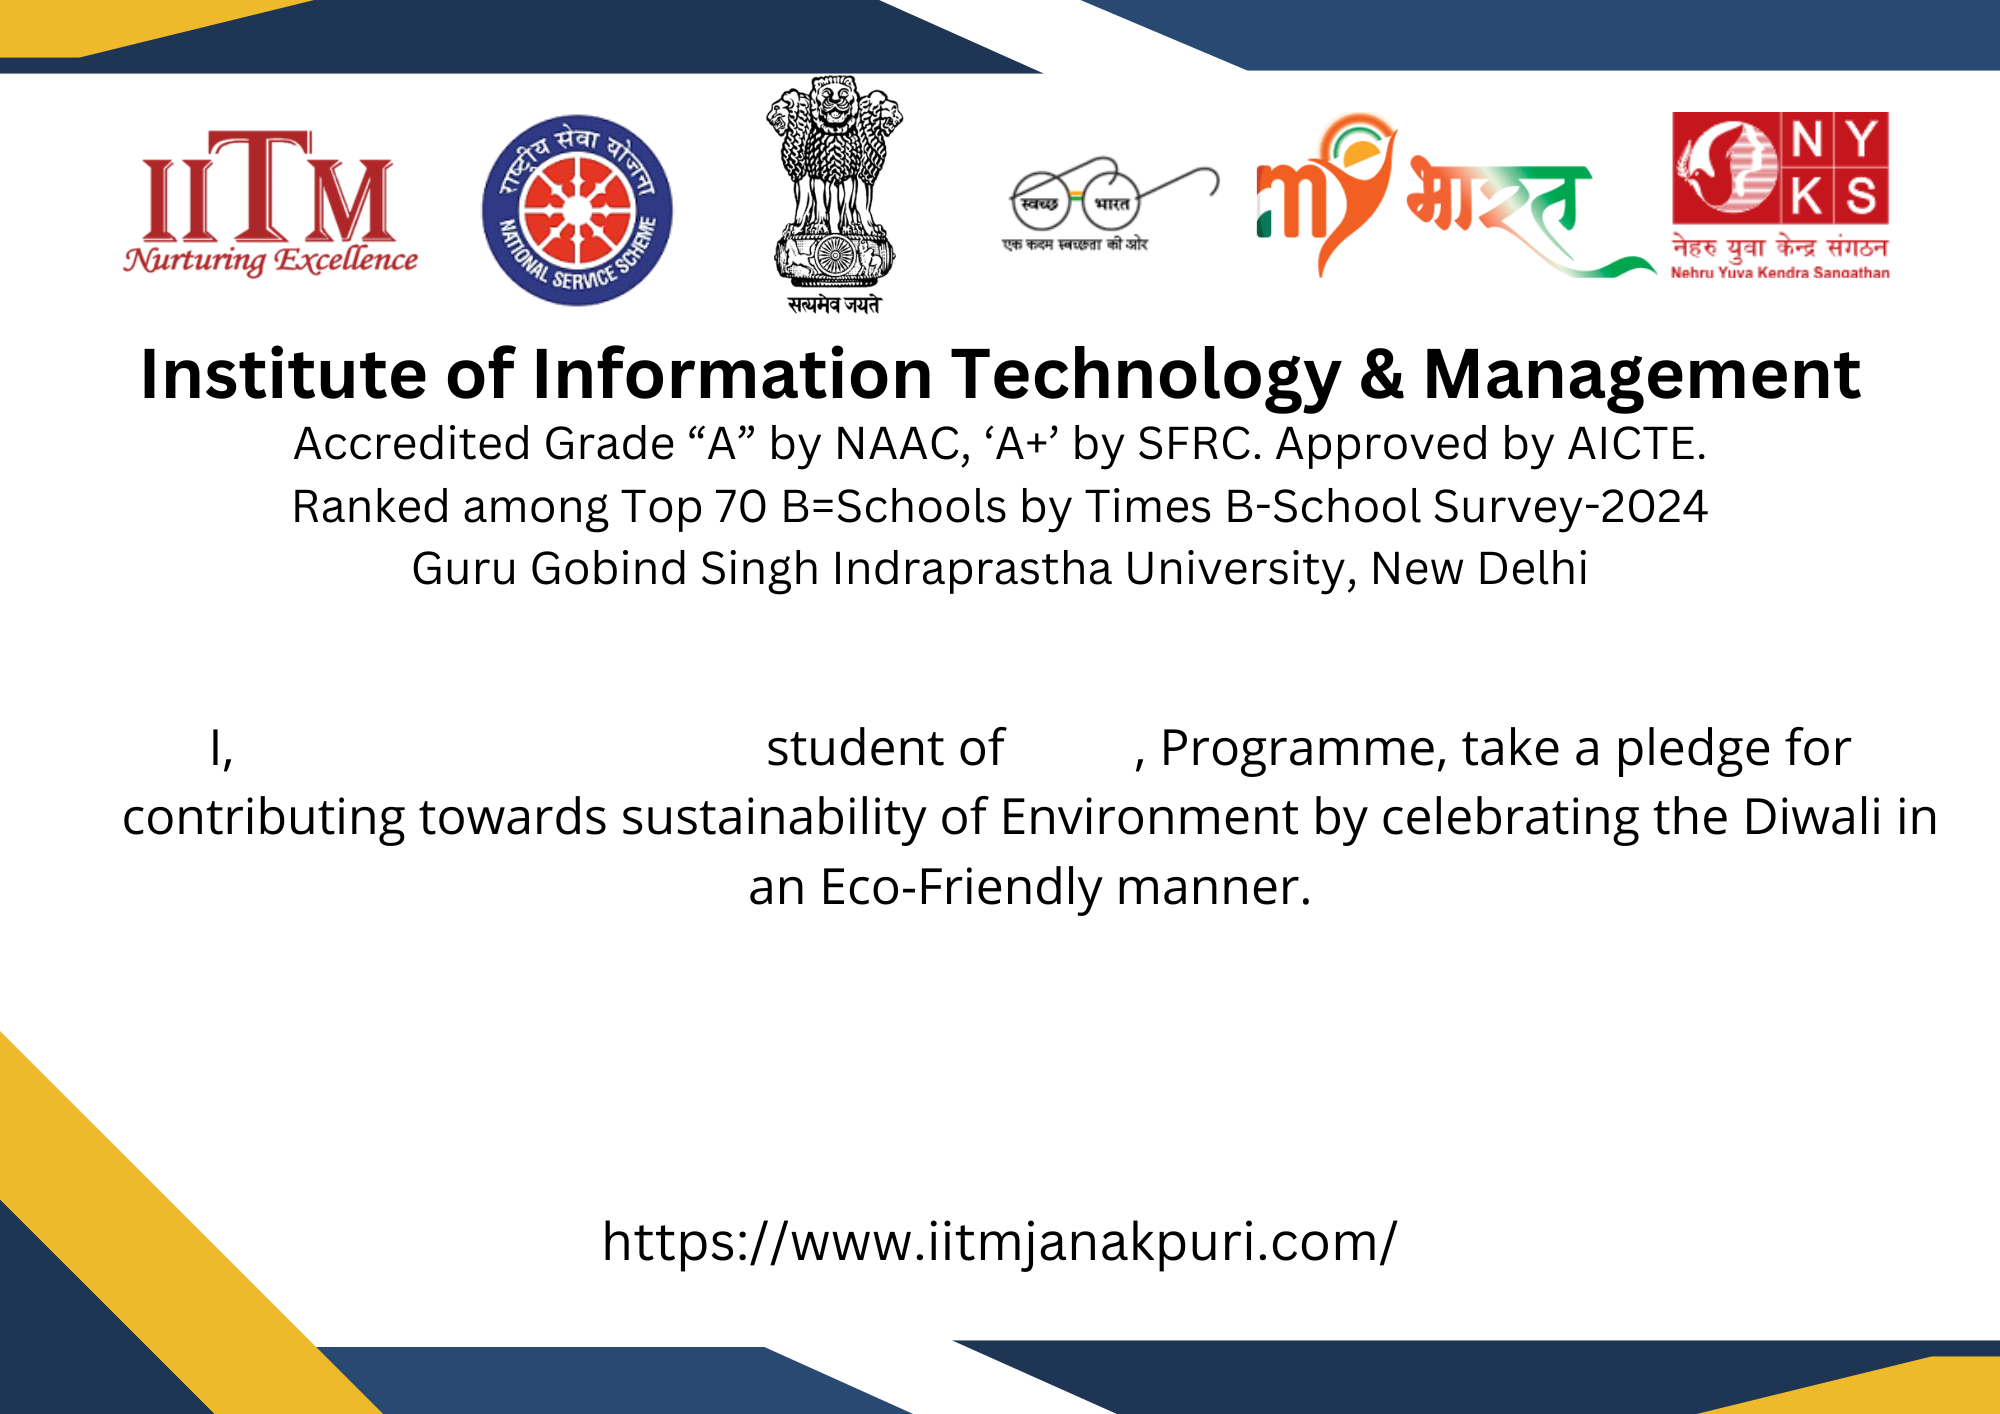
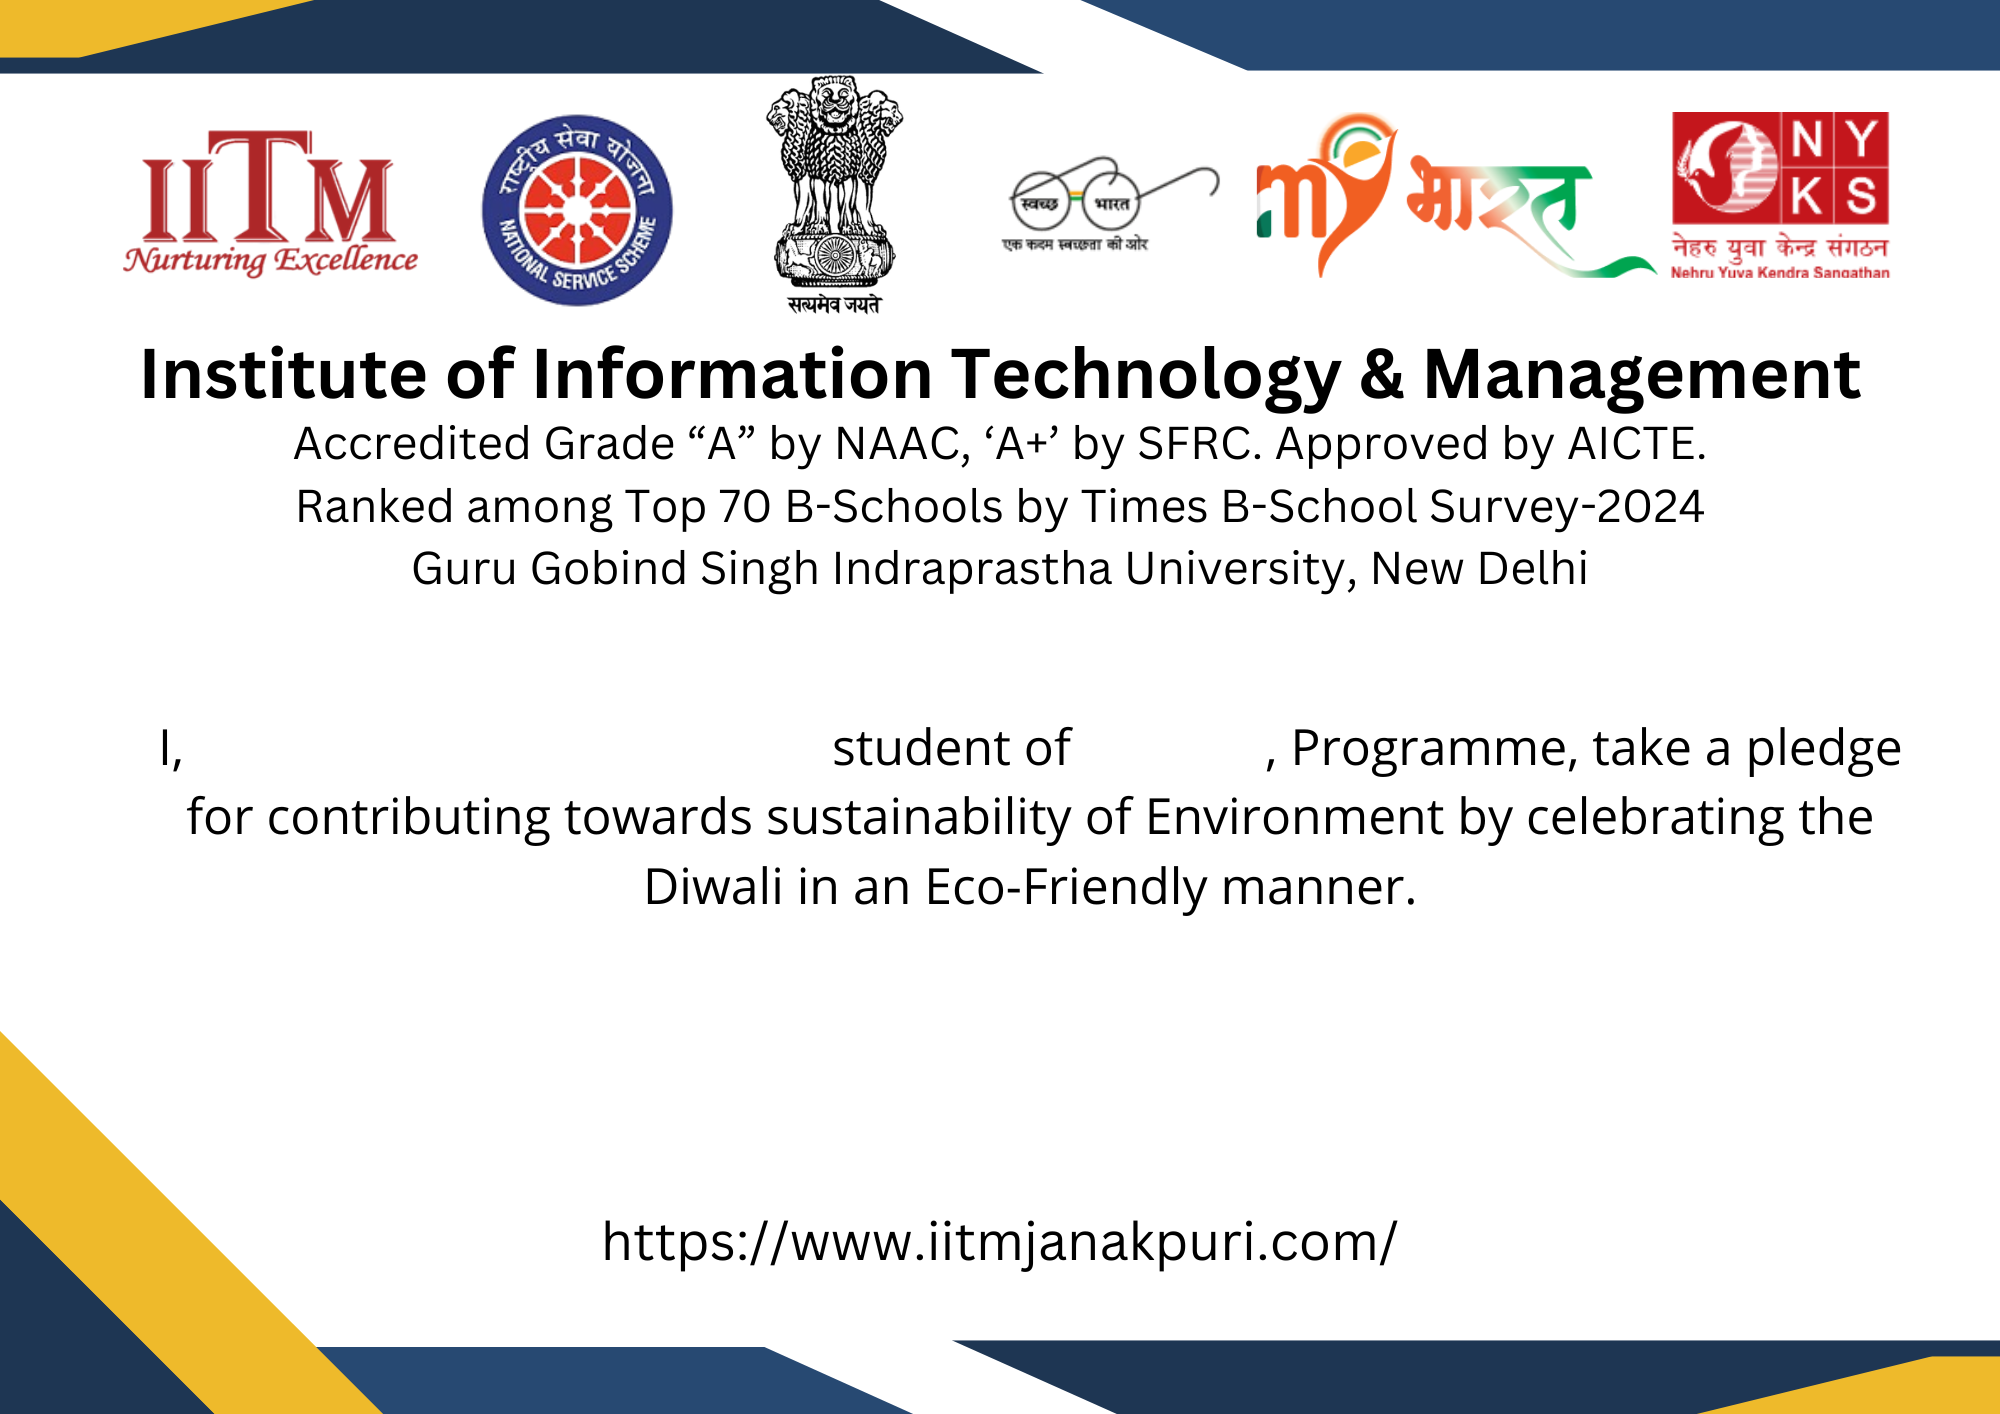
some changes made..

Changed region(s): [[0.062, 0.4979, 0.961, 0.6535], [0.124, 0.3423, 0.868, 0.3734]]

diff --git a/script.js b/script.js
@@ -1,13 +1,7 @@
-document.addEventListener('DOMContentLoaded', function() {
-    document.getElementById('certificateForm').addEventListener('submit', function(event) {
-        event.preventDefault(); // Prevent the default form submission
-    });
-});
-
 function generateCertificate() {
     const name = document.getElementById('name').value;
     const course = document.getElementById('myDropdown').value;
-    
+
     if (!name || !course) {
         alert('Please fill out all fields.');
         return;
@@ -23,46 +17,69 @@ function generateCertificate() {
 
         context.drawImage(image, 0, 0);
 
-        // Base positions (adjust these as needed)
-        const nameBaseX = 420; // X position for the name
-        const nameBaseY = 760; // Y position for the name, aligned with "I,"
+        // Set initial font details
+        let fontSize = 38;
+        let maxWidth = 500; // Maximum width for name text to prevent overflow
 
-        const courseBaseX = 1030; // X position for the course
-        const courseBaseY = 764; // Y position for the course, aligned with "of"
+        // Adjust font size if name length is long
+        if (name.length > 15) {
+            fontSize = 30; // Smaller font for long names
+        } else if (name.length > 10) {
+            fontSize = 34; // Moderate reduction for medium names
+        }
 
-        // Offset values for finer adjustments
-        const nameOffsetX = 0; // Adjust left or right by changing this value
-        const nameOffsetY = 0; // Adjust up or down by changing this value
-
-        const courseOffsetX = 0; // Adjust left or right by changing this value
-        const courseOffsetY = 0; // Adjust up or down by changing this value
-
-        // Final positions after applying offsets
-        const nameFinalX = nameBaseX + nameOffsetX;
-        const nameFinalY = nameBaseY + nameOffsetY;
-
-        const courseFinalX = courseBaseX + courseOffsetX;
-        const courseFinalY = courseBaseY + courseOffsetY;
-
-        // Adding the text to the canvas
-        context.font = 'bold 50px Open Sans';
+        context.font = `bold ${fontSize}px Arial`;
         context.fillStyle = '#000';
         context.textAlign = 'left';
 
-        // Draw the name after "I,"
-        context.fillText(name, nameFinalX, nameFinalY);
+        // Base positions for name and course
+        let nameBaseX = 360;
+        let nameBaseY = 760;
+        const courseBaseX = 1100;
+        const courseBaseY = 764;
 
-        // Draw the course name after "of"
-        context.fillText(course, courseFinalX, courseFinalY);
+        // Check if name width exceeds maxWidth and wrap text if necessary
+        const textWidth = context.measureText(name).width;
+        let lines = [];
+        let currentLine = '';
+        let lineY = nameBaseY;
 
+        if (textWidth > maxWidth) {
+            const words = name.split(' ');
+
+            for (let i = 0; i < words.length; i++) {
+                let testLine = currentLine + words[i] + ' ';
+                let testWidth = context.measureText(testLine).width;
+
+                if (testWidth > maxWidth && i > 0) {
+                    lines.push(currentLine.trim());
+                    currentLine = words[i] + ' ';
+                } else {
+                    currentLine = testLine;
+                }
+            }
+            lines.push(currentLine.trim()); // Final line
+        } else {
+            lines.push(name); // Single line if it fits
+        }
+
+        // Draw all lines
+        lines.forEach((line) => {
+            context.fillText(line, nameBaseX, lineY);
+            lineY += fontSize + 5; // Move to next line with spacing
+        });
+
+        // Draw course text in its fixed position
+        context.font = 'bold 38px Arial';
+        context.fillText(course, courseBaseX, courseBaseY);
+
+        // Create a download link for the certificate
         const link = document.createElement('a');
         link.href = canvas.toDataURL('image/png');
         link.download = 'certificate.png';
 
         document.body.appendChild(link);
         link.click();
-
-        // Clean up
         document.body.removeChild(link);
     };
 

diff --git a/index.html b/index.html
@@ -26,6 +26,7 @@
                         <option style="cursor: pointer;" value="BCA">BBA</option>
                         <option style="cursor: pointer;" value="MBA">MBA</option>
                         <option style="cursor: pointer;" value="BA(JMC)">BA(JMC)</option>
+                        <option style="cursor: pointer;" value="B.Com(H)">B.Com(H)</option>
                     </select>
                     <div id="otherInput" style="display:none;">
                         <label for="otherText">Please specify:</label>
